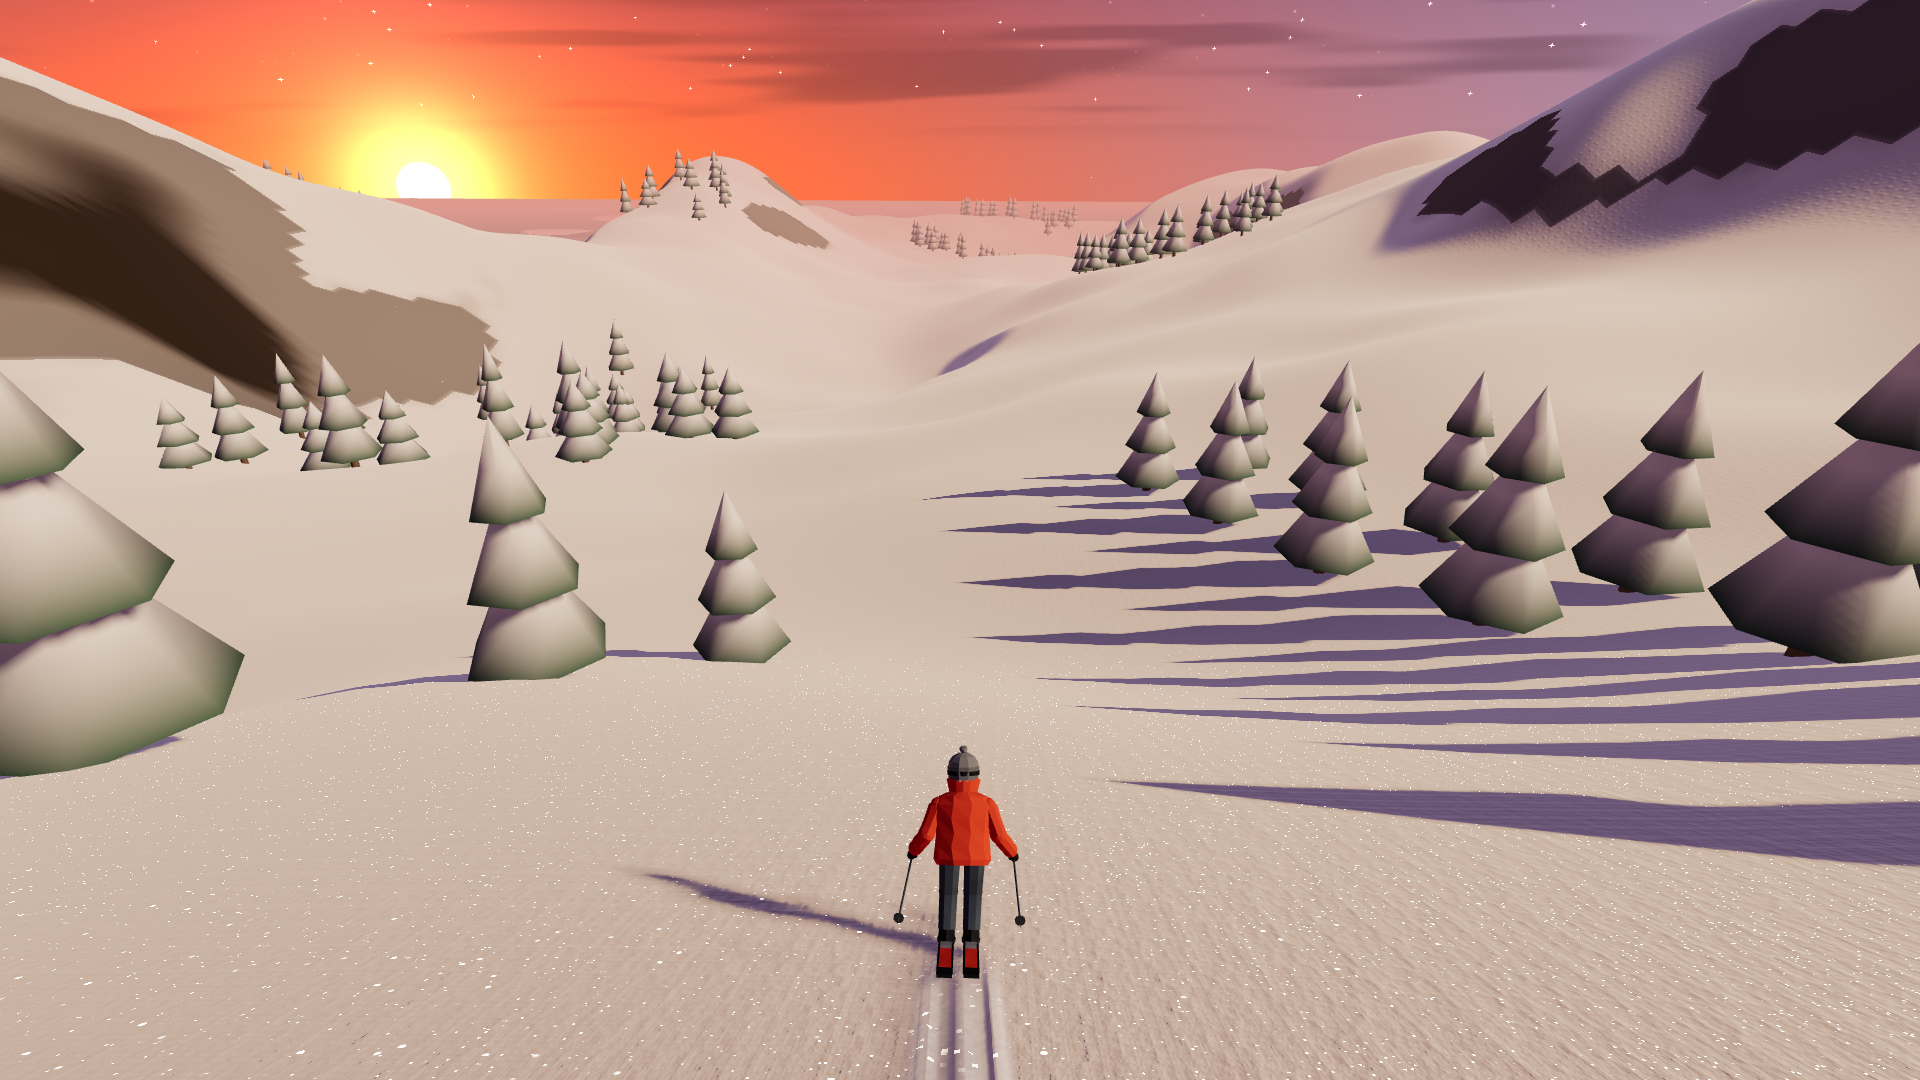
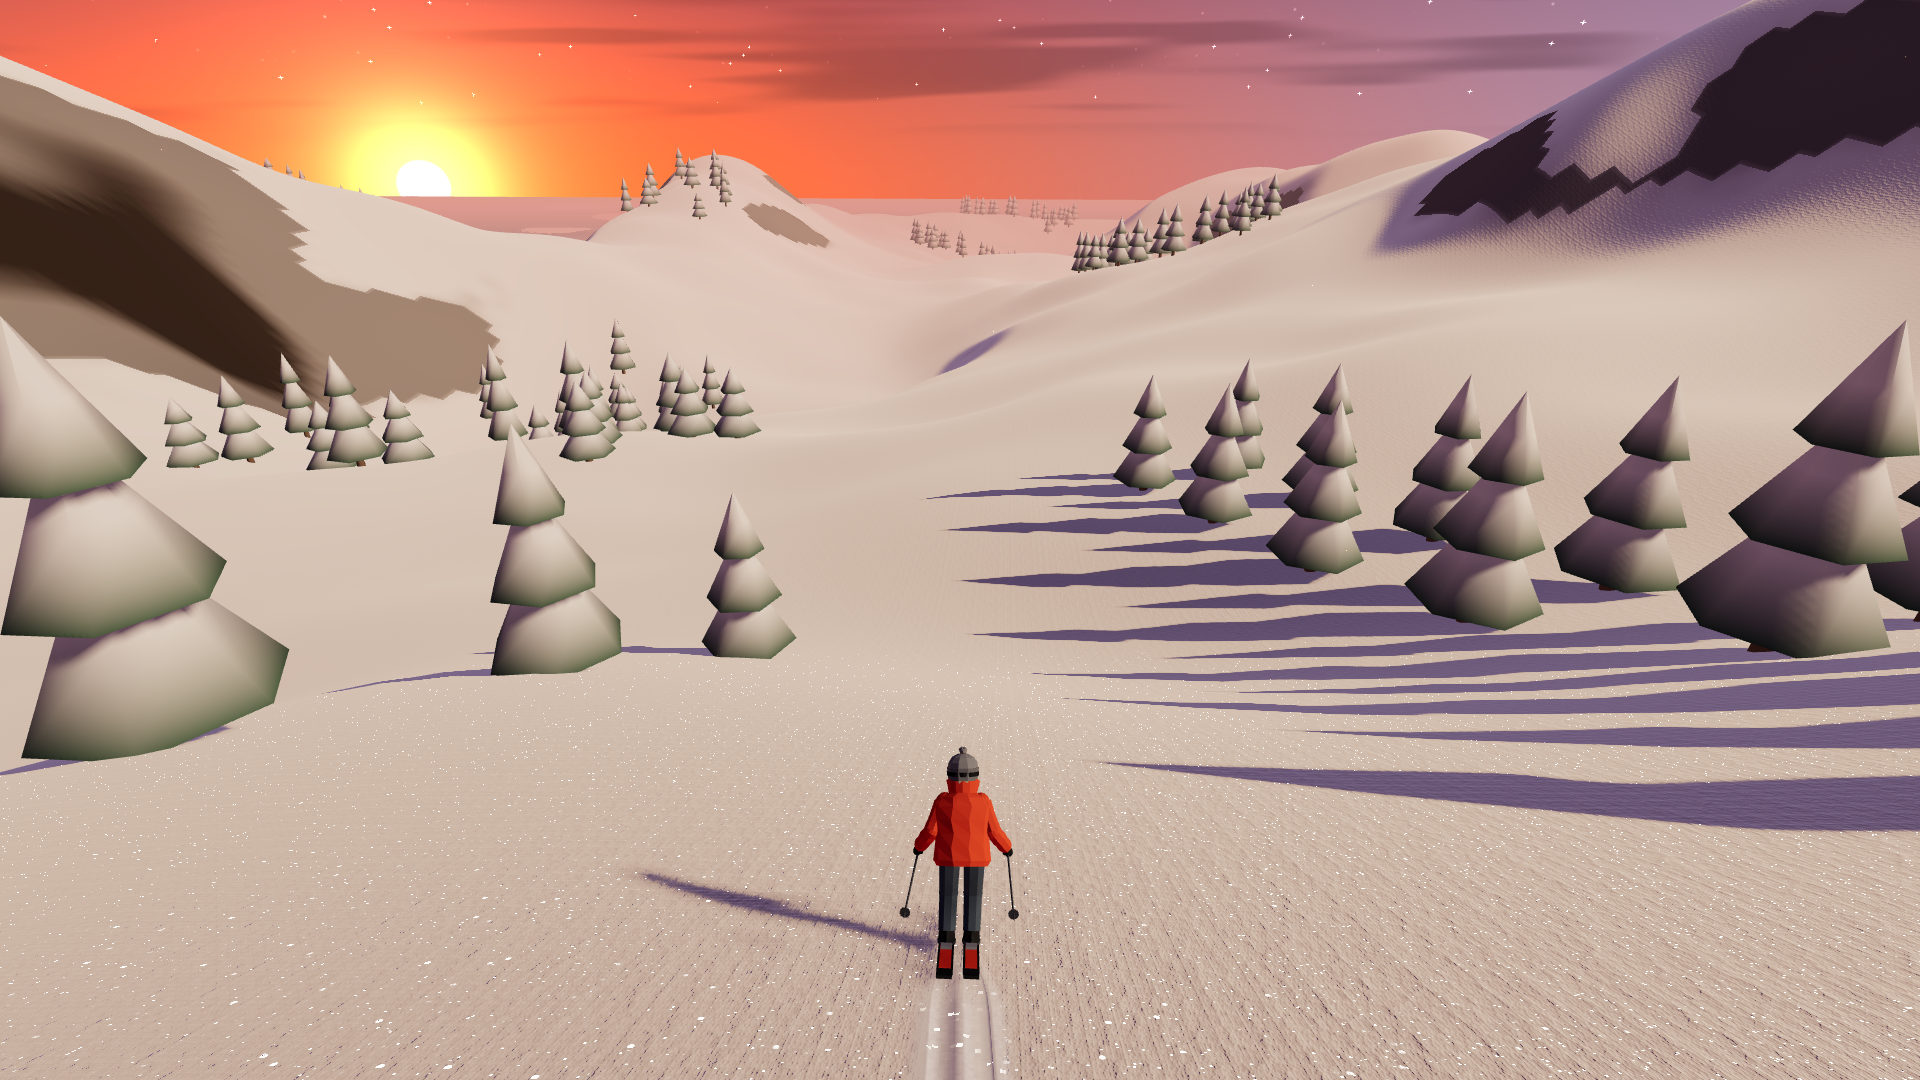
feat(perf): complete phase 3 GPU rendering pipeline, shadow texel snapping & trail uploads

diff --git a/src/world/trails/CarvedSnowTrail.ts b/src/world/trails/CarvedSnowTrail.ts
@@ -33,15 +33,30 @@ export class CarvedSnowTrail {
     this.positions = new Float32Array(totalVerts * 3);
     this.normals = new Float32Array(totalVerts * 3);
     this.colors = new Float32Array(totalVerts * 3);
+    this.colors.fill(1.0);
     this.uvs = new Float32Array(totalVerts * 2);
     this.alphas = new Float32Array(totalVerts);
 
     this.geometry = new THREE.BufferGeometry();
-    this.geometry.setAttribute('position', new THREE.BufferAttribute(this.positions, 3));
-    this.geometry.setAttribute('normal', new THREE.BufferAttribute(this.normals, 3));
-    this.geometry.setAttribute('color', new THREE.BufferAttribute(this.colors, 3));
-    this.geometry.setAttribute('uv', new THREE.BufferAttribute(this.uvs, 2));
-    this.geometry.setAttribute('aAlpha', new THREE.BufferAttribute(this.alphas, 1));
+    const posAttr = new THREE.BufferAttribute(this.positions, 3);
+    posAttr.setUsage(THREE.DynamicDrawUsage);
+    this.geometry.setAttribute('position', posAttr);
+
+    const normAttr = new THREE.BufferAttribute(this.normals, 3);
+    normAttr.setUsage(THREE.DynamicDrawUsage);
+    this.geometry.setAttribute('normal', normAttr);
+
+    const colAttr = new THREE.BufferAttribute(this.colors, 3);
+    colAttr.setUsage(THREE.DynamicDrawUsage);
+    this.geometry.setAttribute('color', colAttr);
+
+    const uvAttr = new THREE.BufferAttribute(this.uvs, 2);
+    uvAttr.setUsage(THREE.DynamicDrawUsage);
+    this.geometry.setAttribute('uv', uvAttr);
+
+    const alphaAttr = new THREE.BufferAttribute(this.alphas, 1);
+    alphaAttr.setUsage(THREE.DynamicDrawUsage);
+    this.geometry.setAttribute('aAlpha', alphaAttr);
 
     // Build quad strip index buffer across 19-point slices
     // Each pair of adjacent slices has (19 - 1) = 18 quads = 36 triangles
@@ -116,15 +131,16 @@ export class CarvedSnowTrail {
     this.baseAlphas.fill(0);
     this.positions.fill(0);
     this.normals.fill(0);
-    this.colors.fill(0);
+    this.colors.fill(1.0);
     this.uvs.fill(0);
     this.alphas.fill(0);
     this.geometry.setDrawRange(0, 0);
-    this.geometry.attributes.position.needsUpdate = true;
-    this.geometry.attributes.normal.needsUpdate = true;
-    this.geometry.attributes.color.needsUpdate = true;
-    this.geometry.attributes.uv.needsUpdate = true;
-    this.geometry.attributes.aAlpha.needsUpdate = true;
+    const totalVerts = this.maxSegments * this.VERTS_PER_SEG;
+    this.setAttributeUpdateRange(this.geometry.attributes.position as THREE.BufferAttribute, 0, totalVerts * 3);
+    this.setAttributeUpdateRange(this.geometry.attributes.normal as THREE.BufferAttribute, 0, totalVerts * 3);
+    this.setAttributeUpdateRange(this.geometry.attributes.color as THREE.BufferAttribute, 0, totalVerts * 3);
+    this.setAttributeUpdateRange(this.geometry.attributes.uv as THREE.BufferAttribute, 0, totalVerts * 2);
+    this.setAttributeUpdateRange(this.geometry.attributes.aAlpha as THREE.BufferAttribute, 0, totalVerts);
   }
 
   public onJumpStart(): void {
@@ -402,7 +418,6 @@ export class CarvedSnowTrail {
       this.basePositions.copyWithin(stride, 0, (this.maxSegments - 1) * stride);
       this.baseAlphas.copyWithin(alphaStride, 0, (this.maxSegments - 1) * alphaStride);
       this.normals.copyWithin(stride, 0, (this.maxSegments - 1) * stride);
-      this.colors.copyWithin(stride, 0, (this.maxSegments - 1) * stride);
       this.uvs.copyWithin(uvStride, 0, (this.maxSegments - 1) * uvStride);
 
       this.segmentGaps.copyWithin(1, 0, this.maxSegments - 1);
@@ -545,16 +560,26 @@ export class CarvedSnowTrail {
         }
       }
       if (needsUpdate) {
-        this.geometry.attributes.aAlpha.needsUpdate = true;
+        const start = fadeStart * this.VERTS_PER_SEG;
+        const count = (this.count - fadeStart) * this.VERTS_PER_SEG;
+        this.setAttributeUpdateRange(this.geometry.attributes.aAlpha as THREE.BufferAttribute, start, count);
       }
     }
   }
 
+  private setAttributeUpdateRange(attr: THREE.BufferAttribute, offset: number, count: number): void {
+    if (count <= 0) return;
+    attr.clearUpdateRanges();
+    attr.addUpdateRange(offset, count);
+    attr.needsUpdate = true;
+  }
+
   private notifyGeometryUpdate(): void {
-    this.geometry.attributes.position.needsUpdate = true;
-    this.geometry.attributes.normal.needsUpdate = true;
-    this.geometry.attributes.color.needsUpdate = true;
-    this.geometry.attributes.uv.needsUpdate = true;
-    this.geometry.attributes.aAlpha.needsUpdate = true;
+    if (this.count <= 0) return;
+    const activeVerts = this.count * this.VERTS_PER_SEG;
+    this.setAttributeUpdateRange(this.geometry.attributes.position as THREE.BufferAttribute, 0, activeVerts * 3);
+    this.setAttributeUpdateRange(this.geometry.attributes.normal as THREE.BufferAttribute, 0, activeVerts * 3);
+    this.setAttributeUpdateRange(this.geometry.attributes.uv as THREE.BufferAttribute, 0, activeVerts * 2);
+    this.setAttributeUpdateRange(this.geometry.attributes.aAlpha as THREE.BufferAttribute, 0, activeVerts);
   }
 }

diff --git a/src/core/Renderer.ts b/src/core/Renderer.ts
@@ -64,6 +64,16 @@ export class Renderer {
   public readonly currentSunColor = new THREE.Color();
   public readonly currentShadowColor = new THREE.Color();
 
+  private lastAppliedLightingFactor: number = -1.0;
+
+  // Pre-allocated scratch vectors for shadow camera texel-snapping without per-frame allocations
+  private readonly _shadowCamRight = new THREE.Vector3();
+  private readonly _shadowCamUp = new THREE.Vector3();
+  private readonly _snappedTarget = new THREE.Vector3();
+  private readonly _lightOffset = new THREE.Vector3(-190, 130, -50);
+  private readonly _lightDir = new THREE.Vector3(-190, 130, -50).normalize();
+  private readonly _shadowTexelSize: number = 200.0 / 2048.0;
+
   constructor(canvas: HTMLCanvasElement) {
     this.scene = new THREE.Scene();
     this.scene.background = new THREE.Color(0xf6eef3);
@@ -142,6 +152,7 @@ export class Renderer {
     if (instant) {
       this.lightingFactor = this.targetLightingFactor;
       this.applyLightingLerp(this.lightingFactor);
+      this.lastAppliedLightingFactor = this.lightingFactor;
     }
   }
 
@@ -214,20 +225,36 @@ export class Renderer {
   public updateLighting(time: number, targetPos: THREE.Vector3, cameraPos: THREE.Vector3, delta: number = 0.016): void {
     if (this.autoCycle && !this.cycle.isPaused) {
       this.lightingFactor = this.cycle.update(delta);
-      this.applyLightingLerp(this.lightingFactor);
-    } else {
+    } else if (!this.autoCycle) {
       if (Math.abs(this.lightingFactor - this.targetLightingFactor) > 0.0005) {
         this.lightingFactor = THREE.MathUtils.damp(this.lightingFactor, this.targetLightingFactor, 7.5, delta);
-        this.applyLightingLerp(this.lightingFactor);
       }
     }
 
-    // Keep high-resolution shadow map centered on player
-    this.dirLight.target.position.copy(targetPos);
+    if (Math.abs(this.lightingFactor - this.lastAppliedLightingFactor) > 0.0001) {
+      this.applyLightingLerp(this.lightingFactor);
+      this.lastAppliedLightingFactor = this.lightingFactor;
+    }
+
+    // Keep high-resolution shadow map centered on player, snapped to world-space shadow texels
+    const up = THREE.Object3D.DEFAULT_UP;
+    this._shadowCamRight.crossVectors(up, this._lightDir).normalize();
+    this._shadowCamUp.crossVectors(this._lightDir, this._shadowCamRight).normalize();
+
+    const projX = targetPos.dot(this._shadowCamRight);
+    const projY = targetPos.dot(this._shadowCamUp);
+    const snapX = Math.floor(projX / this._shadowTexelSize) * this._shadowTexelSize;
+    const snapY = Math.floor(projY / this._shadowTexelSize) * this._shadowTexelSize;
+
+    this._snappedTarget.copy(targetPos)
+      .addScaledVector(this._shadowCamRight, snapX - projX)
+      .addScaledVector(this._shadowCamUp, snapY - projY);
+
+    this.dirLight.target.position.copy(this._snappedTarget);
     this.dirLight.position.set(
-      targetPos.x - 190,
-      targetPos.y + 130,
-      targetPos.z - 50
+      this._snappedTarget.x + this._lightOffset.x,
+      this._snappedTarget.y + this._lightOffset.y,
+      this._snappedTarget.z + this._lightOffset.z
     );
     this.dirLight.target.updateMatrixWorld();
     this.dirLight.updateMatrixWorld();
@@ -240,6 +267,7 @@ export class Renderer {
     this.camera.aspect = window.innerWidth / window.innerHeight;
     this.camera.updateProjectionMatrix();
     this.renderer.setSize(window.innerWidth, window.innerHeight);
+    this.renderer.setPixelRatio(Math.min(window.devicePixelRatio, 2));
   }
 
   public render(): void {

diff --git a/src/world/shaders/SnowTrailMaterial.ts b/src/world/shaders/SnowTrailMaterial.ts
@@ -98,6 +98,10 @@ export function createSnowTrailMaterial(options: SnowTrailMaterialOptions = {}):
       varying vec2 vTrailUV;
       varying float vTrailAlpha;
 
+      vec3 gCrossTrack;
+      float gTrailDistCam;
+      float gTrailNearFade;
+
       // Hash for fine snow crystalline micro-sparkle
       vec3 hash33(vec3 p) {
         p = fract(p * vec3(0.1031, 0.1030, 0.0973));
@@ -118,8 +122,9 @@ export function createSnowTrailMaterial(options: SnowTrailMaterialOptions = {}):
       vec3 dPdy = dFdy(vWorldPosition);
       float du_dx = dFdx(vTrailUV.x);
       float du_dy = dFdy(vTrailUV.x);
-      vec3 crossTrack = normalize(dPdx * du_dx + dPdy * du_dy);
-      if (length(crossTrack) < 0.01) crossTrack = vec3(1.0, 0.0, 0.0);
+      gCrossTrack = normalize(dPdx * du_dx + dPdy * du_dy);
+      if (length(gCrossTrack) < 0.01) gCrossTrack = vec3(1.0, 0.0, 0.0);
+      vec3 crossTrack = gCrossTrack;
 
       // Micro-striation normal perturbation inside each ski rut (soft, fine grooming)
       float tRutL_n = clamp((vTrailUV.x - 0.16) / 0.22, 0.0, 1.0);
@@ -160,8 +165,10 @@ export function createSnowTrailMaterial(options: SnowTrailMaterialOptions = {}):
       vec3 baseSnow = mix(mix(dayPowder, goldenPowder, uGoldenFactor), nightPowder, uNightFactor);
 
       // High-frequency granular snow powder texture matching mountain terrain
-      float trailDistCam = length(vWorldPosition - uCameraPos);
-      float trailNearFade = 1.0 - smoothstep(10.0, 75.0, trailDistCam);
+      gTrailDistCam = length(vWorldPosition - uCameraPos);
+      gTrailNearFade = 1.0 - smoothstep(10.0, 75.0, gTrailDistCam);
+      float trailDistCam = gTrailDistCam;
+      float trailNearFade = gTrailNearFade;
       float trailGrainHash = fract(sin(dot(floor(vWorldPosition * 24.0), vec3(12.9898, 78.233, 45.164))) * 43758.5453);
       float trailPowderGrain = (trailGrainHash - 0.5) * 0.035 * trailNearFade;
 
@@ -186,8 +193,8 @@ export function createSnowTrailMaterial(options: SnowTrailMaterialOptions = {}):
       float shadowFactor = smoothstep(0.04, 0.18, directSum);
 
       // Granular powder micro-contrast
-      float lightDistCam = length(vWorldPosition - uCameraPos);
-      float lightNearFade = 1.0 - smoothstep(10.0, 75.0, lightDistCam);
+      float lightDistCam = gTrailDistCam;
+      float lightNearFade = gTrailNearFade;
       float lightGrainHash = fract(sin(dot(floor(vWorldPosition * 24.0), vec3(12.9898, 78.233, 45.164))) * 43758.5453);
       float lightPowderGrain = (lightGrainHash - 0.5) * 0.045 * lightNearFade;
       reflectedLight.directDiffuse += lightPowderGrain * 3.8 * reflectedLight.directDiffuse * shadowFactor;
@@ -201,12 +208,7 @@ export function createSnowTrailMaterial(options: SnowTrailMaterialOptions = {}):
       reflectedLight.indirectDiffuse *= (1.0 - cavityMask * 0.05);
 
       // 2. Directional contact shadow cast along the raised berm shoulders:
-      vec3 dPdx_l = dFdx(vWorldPosition);
-      vec3 dPdy_l = dFdy(vWorldPosition);
-      float du_dx_l = dFdx(vTrailUV.x);
-      float du_dy_l = dFdy(vTrailUV.x);
-      vec3 crossTrack_l = normalize(dPdx_l * du_dx_l + dPdy_l * du_dy_l);
-      if (length(crossTrack_l) < 0.01) crossTrack_l = vec3(1.0, 0.0, 0.0);
+      vec3 crossTrack_l = gCrossTrack;
       float sunLateral = dot(uSunDir, crossTrack_l);
 
       // Soft, diffuse contact shadow across the sun-opposing shoulder and rut bowl:

diff --git a/src/world/shaders/SnowMaterial.ts b/src/world/shaders/SnowMaterial.ts
@@ -5,6 +5,7 @@ export interface SnowMaterialOptions {
   sunDir?: THREE.Vector3;
   sunColor?: THREE.Color;
   shadowColor?: THREE.Color;
+  anisotropy?: number;
 }
 
 export function createSnowMaterial(options: SnowMaterialOptions = {}): THREE.MeshStandardMaterial {
@@ -12,8 +13,8 @@ export function createSnowMaterial(options: SnowMaterialOptions = {}): THREE.Mes
   const sunColor = options.sunColor || new THREE.Color(0xfff6ec);
   const shadowColor = options.shadowColor || new THREE.Color(0x9ca9cb);
 
-  // Generate shared 1024x1024 procedural detail texture
-  const detailTexture = createSnowDetailTexture();
+  // Generate or retrieve shared 1024x1024 procedural detail texture
+  const detailTexture = createSnowDetailTexture(options.anisotropy ?? 4);
 
   const uniforms = {
     uDetailTex: { value: detailTexture },
@@ -268,7 +269,8 @@ export function createSnowMaterial(options: SnowMaterialOptions = {}): THREE.Mes
           float glint2 = spec2 * point2 * step(0.88, rnd2.y) * 42.0;
 
           // Grazing Fresnel enhancement & distance fade
-          float glintGrazing = 1.0 + 3.5 * pow(1.0 - NdotV, 3.0);
+          float oneMinusNdotV = 1.0 - NdotV;
+          float glintGrazing = 1.0 + 3.5 * (oneMinusNdotV * oneMinusNdotV * oneMinusNdotV);
           float glintFade = 1.0 - smoothstep(1.5, 60.0, gDistToCam);
 
           float totalSparkle = (glint1 + glint2) * glintGrazing * glintFade * shadowFactor * gRockMask;

diff --git a/src/world/environment/SkyDome.ts b/src/world/environment/SkyDome.ts
@@ -107,7 +107,7 @@ export class SkyDome {
         vec3 horizDir = normalize(vec3(dir.x, 0.0, dir.z));
         vec3 horizSun = normalize(vec3(uGoldenSunDir.x, 0.0, uGoldenSunDir.z));
         float sunAzimuth = max(0.0, dot(horizDir, horizSun));
-        float azimuthGlow = pow(sunAzimuth, 2.0);
+        float azimuthGlow = sunAzimuth * sunAzimuth;
 
         vec3 goldenDuskHorizon = vec3(0.68, 0.58, 0.70); // Soft twilight lavender away from sun
         vec3 goldenSunHorizon = uGoldenHorizonColor;       // Warm luminous peach-amber near sun
@@ -175,7 +175,7 @@ export class SkyDome {
             float halo1 = pow(moonDot, 140.0) * 0.85;
             float halo2 = pow(moonDot, 32.0) * 0.40;
             float halo3 = pow(moonDot, 8.0) * 0.18;
-            float halo4 = pow(moonDot, 2.0) * 0.08;
+            float halo4 = (moonDot * moonDot) * 0.08;
             float totalHalo = (halo1 + halo2 + halo3 + halo4);
 
             vec3 moonDiskCol = vec3(1.0, 0.99, 0.97) * moonDisk * 3.8;
@@ -220,6 +220,8 @@ export class SkyDome {
     });
 
     this.mesh = new THREE.Mesh(geometry, this.material);
+    this.mesh.castShadow = false;
+    this.mesh.receiveShadow = false;
     this.mesh.renderOrder = -1000;
   }
 

diff --git a/src/world/shaders/DetailTexture.ts b/src/world/shaders/DetailTexture.ts
@@ -13,7 +13,13 @@ import * as THREE from 'three';
  * - B: Tactile snow grain height & cavity ambient occlusion [0..255]
  * - A: Stochastic sparkle phase seed [0..255]
  */
-export function createSnowDetailTexture(): THREE.DataTexture {
+let cachedSnowDetailTexture: THREE.DataTexture | null = null;
+
+export function createSnowDetailTexture(anisotropy: number = 4): THREE.DataTexture {
+  if (cachedSnowDetailTexture) {
+    return cachedSnowDetailTexture;
+  }
+
   const size = 1024;
   const data = new Uint8Array(size * size * 4);
 
@@ -173,7 +179,9 @@ export function createSnowDetailTexture(): THREE.DataTexture {
   texture.minFilter = THREE.LinearMipmapLinearFilter;
   texture.magFilter = THREE.LinearFilter;
   texture.generateMipmaps = true;
+  texture.anisotropy = Math.max(1, Math.min(4, anisotropy));
   texture.needsUpdate = true;
 
+  cachedSnowDetailTexture = texture;
   return texture;
 }

diff --git a/src/world/AlpineMassif.ts b/src/world/AlpineMassif.ts
@@ -295,6 +295,7 @@ export class AlpineMassif {
     this.iceMesh = new THREE.Mesh(iceGeom, iceMat);
     this.iceMesh.position.set(0, 0, 1010);
     this.iceMesh.receiveShadow = true;
+    this.iceMesh.castShadow = false;
     this.iceMesh.matrixAutoUpdate = false;
     this.iceMesh.updateMatrix();
     this.group.add(this.iceMesh);

diff --git a/src/world/environment/AirborneSparkles.ts b/src/world/environment/AirborneSparkles.ts
@@ -94,6 +94,8 @@ export class AirborneSparkles {
     });
 
     this.points = new THREE.Points(this.geometry, this.material);
+    this.points.castShadow = false;
+    this.points.receiveShadow = false;
     this.points.frustumCulled = false;
   }
 
